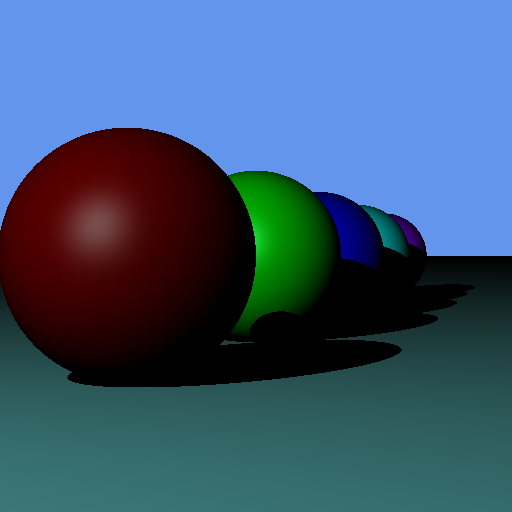
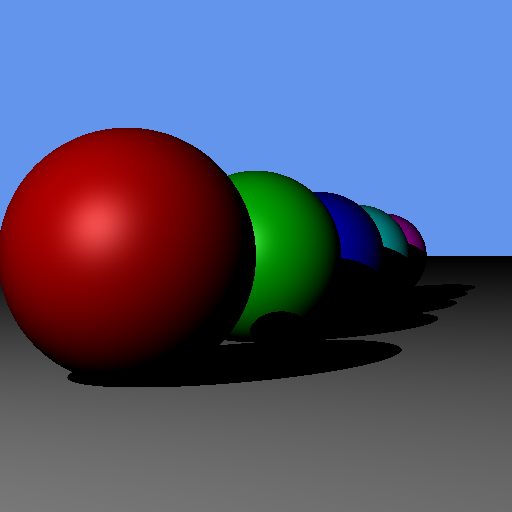
これまでのプログラムに点光源のIntensity設定追加

diff --git a/raytracing_multiobj.cpp b/raytracing_multiobj.cpp
@@ -40,6 +40,7 @@ int main()
     // 点光源の位置を決める
     PointLight pointLight;
     pointLight.position = Vector3(-5, 5, -5);
+    pointLight.intensity = FColor(1.f, 1.f, 1.f);
 
     // 視線方向で最も近い物体を探し，
     // その物体との交点位置とその点での法線ベクトルを求める

diff --git a/raytracing_shadow.cpp b/raytracing_shadow.cpp
@@ -40,6 +40,7 @@ int main()
     // 点光源の位置を決める
     PointLight pointLight;
     pointLight.position = Vector3(-5, 5, -5);
+    pointLight.intensity = FColor(1.f, 1.f, 1.f);
 
     // 視線方向で最も近い物体を探し，
     // その物体との交点位置とその点での法線ベクトルを求める
